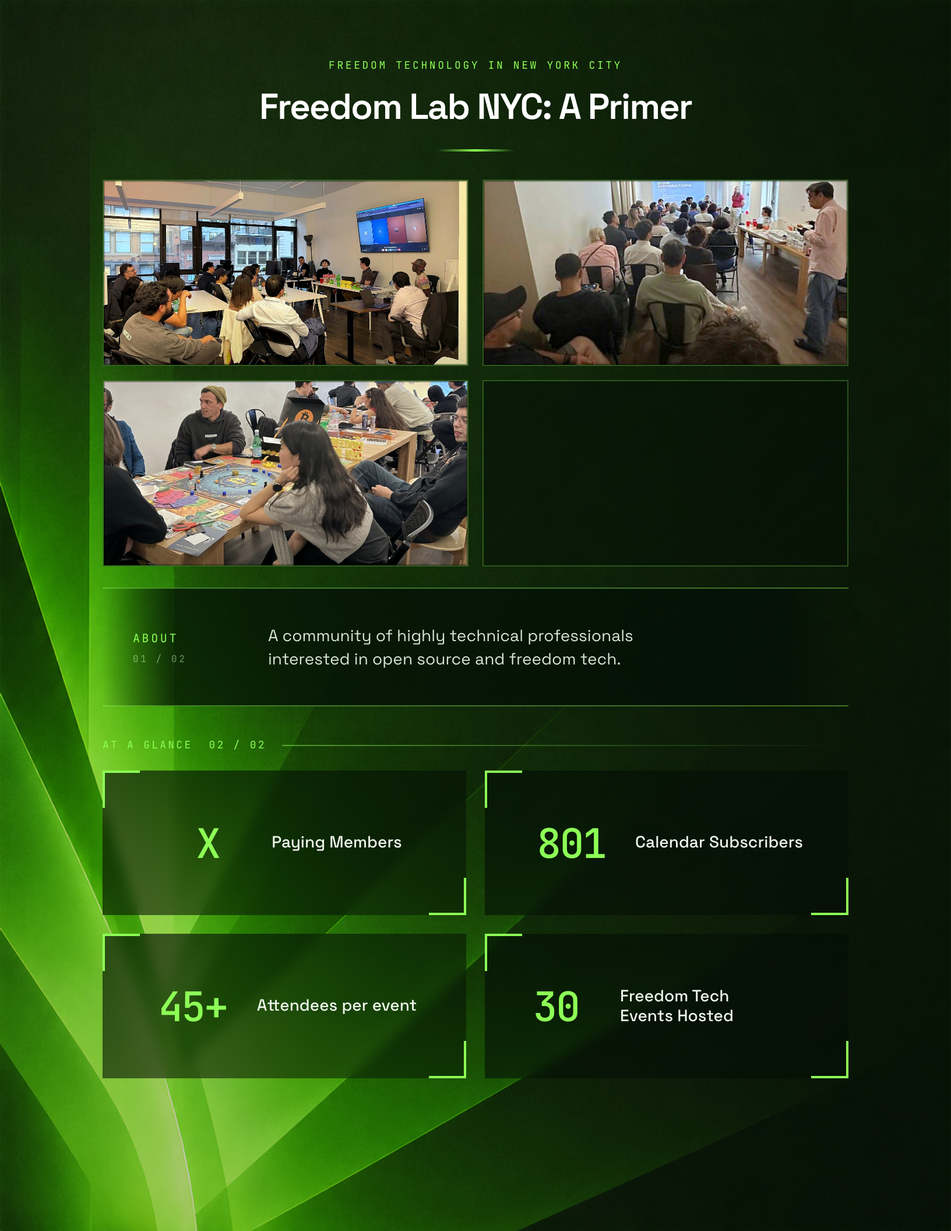
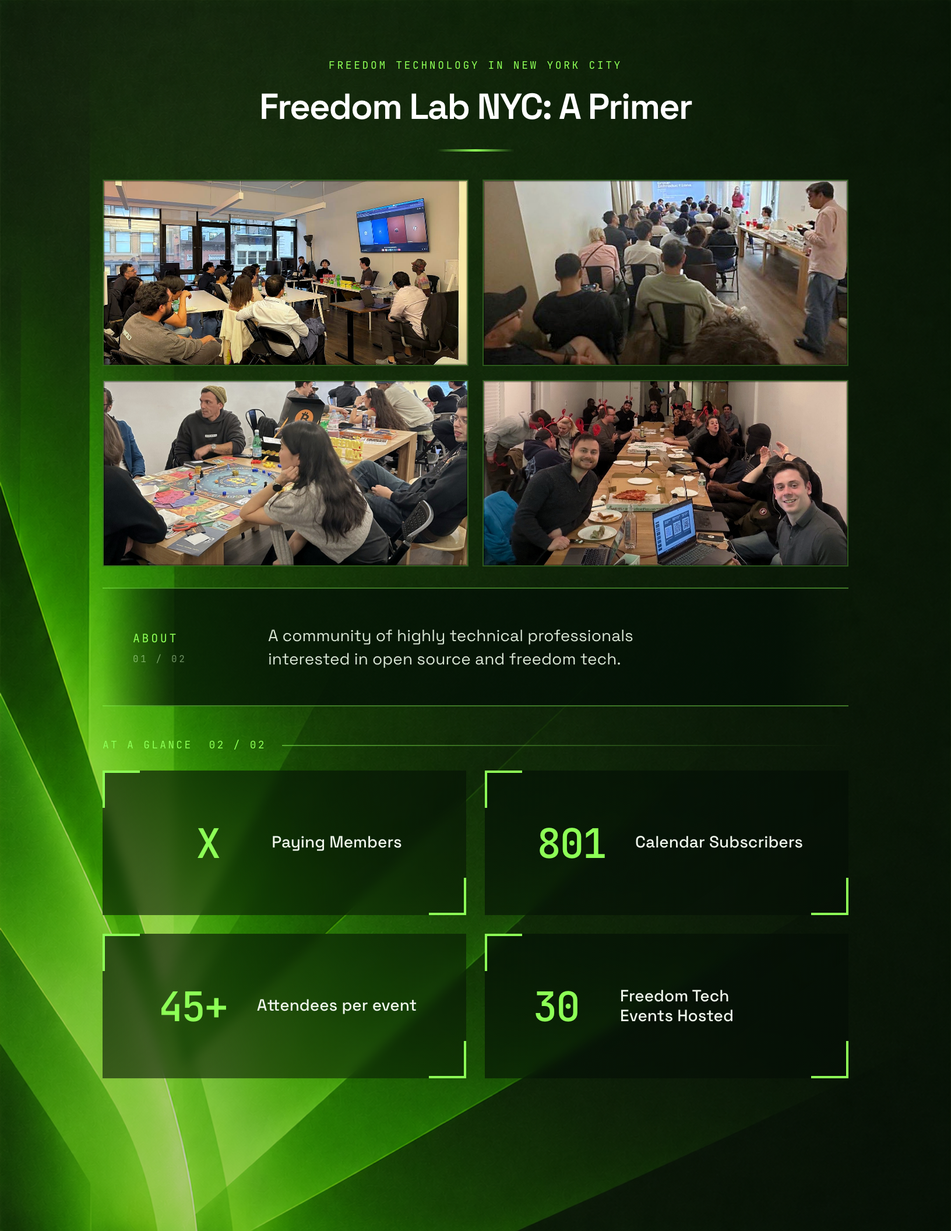
Fill fourth primer community photo

Changed region(s): [[0.5, 0.3125, 0.9062, 0.4688]]

diff --git a/coverdesign/primer-options/split/index.html b/coverdesign/primer-options/split/index.html
@@ -40,9 +40,8 @@
     .photo-cell:nth-child(1) img{object-position:54% 58%}
     .photo-cell:nth-child(2) img{object-position:52% 43%}
     .photo-cell:nth-child(3) img{object-position:55% 48%}
+    .photo-cell:nth-child(4) img{object-position:50% 48%}
     .photo-cell::after{content:"";position:absolute;inset:0;pointer-events:none;box-shadow:inset 0 0 0 1px rgba(0,0,0,.28);background:linear-gradient(180deg,transparent 68%,rgba(1,7,3,.13))}
-    .photo-empty{background:linear-gradient(145deg,rgba(2,14,5,.58),rgba(2,8,3,.36));backdrop-filter:blur(4px)}
-    .photo-empty::before,.photo-empty::after{display:none}
 
     .about{min-height:102px;display:grid;grid-template-columns:94px 1fr;gap:22px;align-items:center;margin-top:18px;padding:18px 26px;border-block:1px solid rgba(141,255,86,.42);background:linear-gradient(90deg,transparent,rgba(2,14,5,.72) 9% 91%,transparent)}
     .about-label{font-family:"JetBrains Mono",monospace;font-size:10px;line-height:1.5;letter-spacing:.18em;text-transform:uppercase;color:var(--green-light)}
@@ -73,7 +72,7 @@
         <figure class="photo-cell"><img src="assets/photo-01.jpg" alt="Freedom Lab community event in a bright meeting room"></figure>
         <figure class="photo-cell"><img src="assets/photo-02.jpeg" alt="Freedom Lab class with a full audience"></figure>
         <figure class="photo-cell"><img src="assets/photo-03.jpeg" alt="Freedom Lab community members playing a Bitcoin board game"></figure>
-        <figure class="photo-cell photo-empty" aria-label="Reserved space for a fourth community photo"></figure>
+        <figure class="photo-cell"><img src="assets/photo-04.jpeg" alt="Freedom Lab community gathering around a long workshop table"></figure>
       </section>
 
       <section class="about" aria-label="About Freedom Lab NYC">
